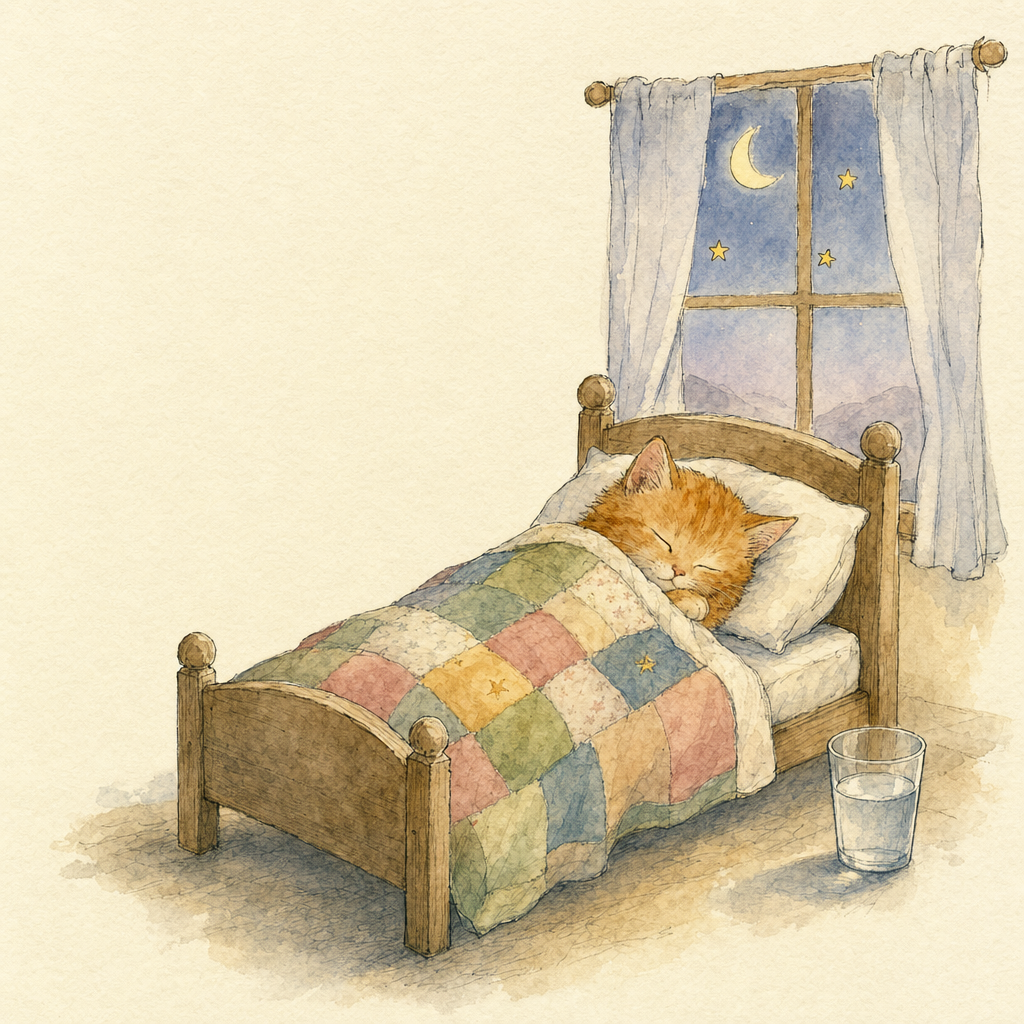
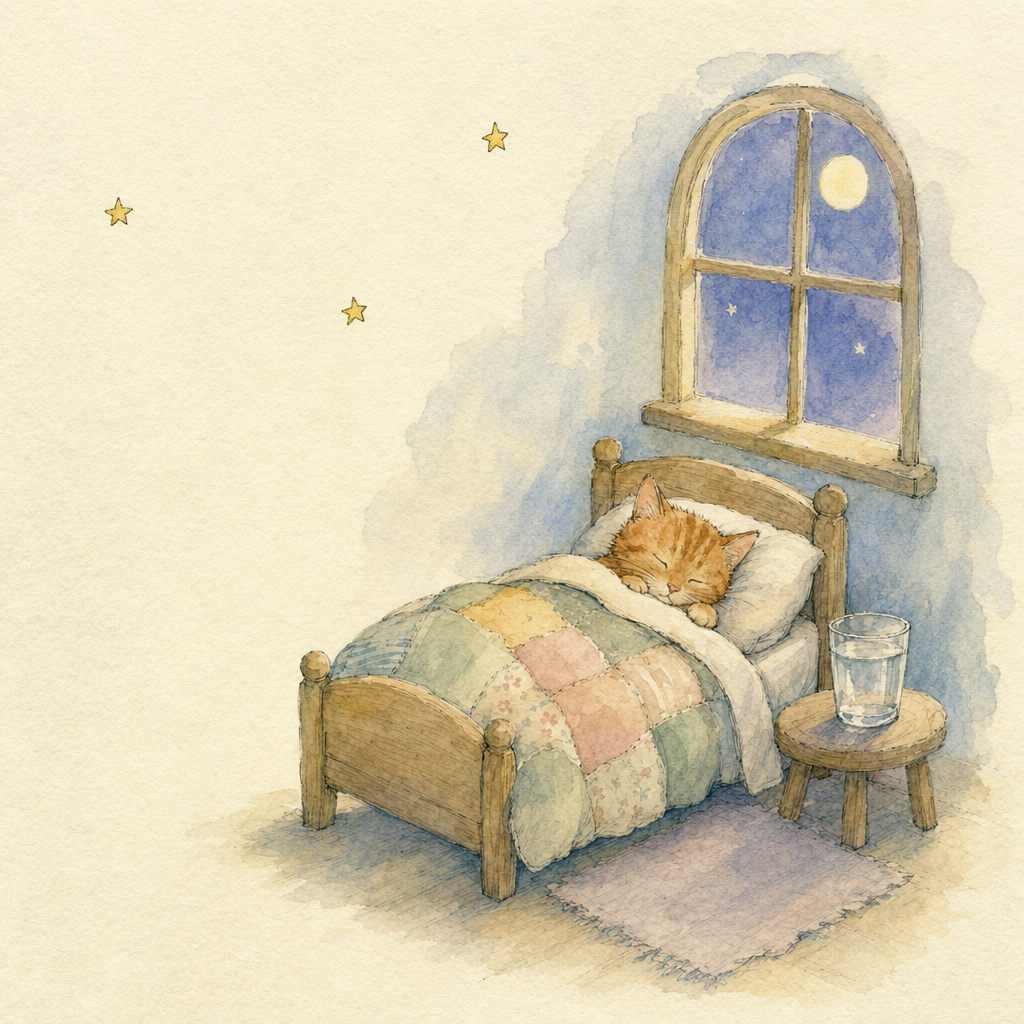
chore: refresh scene PNGs, simplify TopBar and App

diff --git a/src/components/TopBar.tsx b/src/components/TopBar.tsx
@@ -4,13 +4,11 @@ export function TopBar() {
   const turns = useSession((s) => s.turns);
   const branchActive = useSession((s) => s.branchActive);
   const branchUsed = useSession((s) => s.branchUsed);
-  const devOpen = useSession((s) => s.devOpen);
-  const toggleDev = useSession((s) => s.toggleDev);
 
   const turnLabel =
     turns.length === 0
-      ? "turn 1 · “the cat who ate too much cake”"
-      : `turn ${turns.length + (branchActive ? 0 : 1)} · “the cat who ate too much cake”`;
+      ? "Page 1 · “the cat who ate too much cake”"
+      : `Page ${turns.length + (branchActive ? 0 : 1)} · “the cat who ate too much cake”`;
 
   return (
     <header
@@ -42,28 +40,6 @@ export function TopBar() {
         >
           ⌁ branch
         </span>
-        <button
-          className="flex items-center gap-2 px-3 py-1 rounded-pill text-xs"
-          onClick={toggleDev}
-          aria-pressed={devOpen}
-          style={{
-            background: devOpen ? "rgba(43,40,37,0.94)" : "transparent",
-            color: devOpen ? "#f7e7c5" : "var(--text-muted)",
-            border: `1px solid ${devOpen ? "rgba(43,40,37,0.94)" : "var(--border)"}`,
-            fontFamily: "var(--mono, 'JetBrains Mono')",
-          }}
-        >
-          <span
-            className="inline-block rounded-full"
-            style={{
-              width: 7,
-              height: 7,
-              background: devOpen ? "#e8b86d" : "var(--text-muted)",
-              animation: devOpen ? "shimmer 1.6s ease-in-out infinite" : "none",
-            }}
-          />
-          dev
-        </button>
       </div>
     </header>
   );

diff --git a/src/App.tsx b/src/App.tsx
@@ -5,7 +5,6 @@ import { Narration } from "./components/Narration";
 import { UtteranceStrip } from "./components/UtteranceStrip";
 import { VocabGrid } from "./components/VocabGrid";
 import { BranchOverlay } from "./components/BranchOverlay";
-import { DevPanel } from "./components/DevPanel";
 
 export default function App() {
   return (
@@ -26,7 +25,6 @@ export default function App() {
         }
       />
       <BranchOverlay />
-      <DevPanel />
     </div>
   );
 }

diff --git a/src/components/StoryCanvas.tsx b/src/components/StoryCanvas.tsx
@@ -43,7 +43,7 @@ export function StoryCanvas() {
   };
 
   const turnIndex = turns.length === 0 ? 1 : turns.length;
-  const turnLabel = phase === "branching" ? "choose a path" : `turn ${turnIndex}`;
+  const turnLabel = phase === "branching" ? "choose a path" : `Page ${turnIndex}`;
 
   return (
     <div